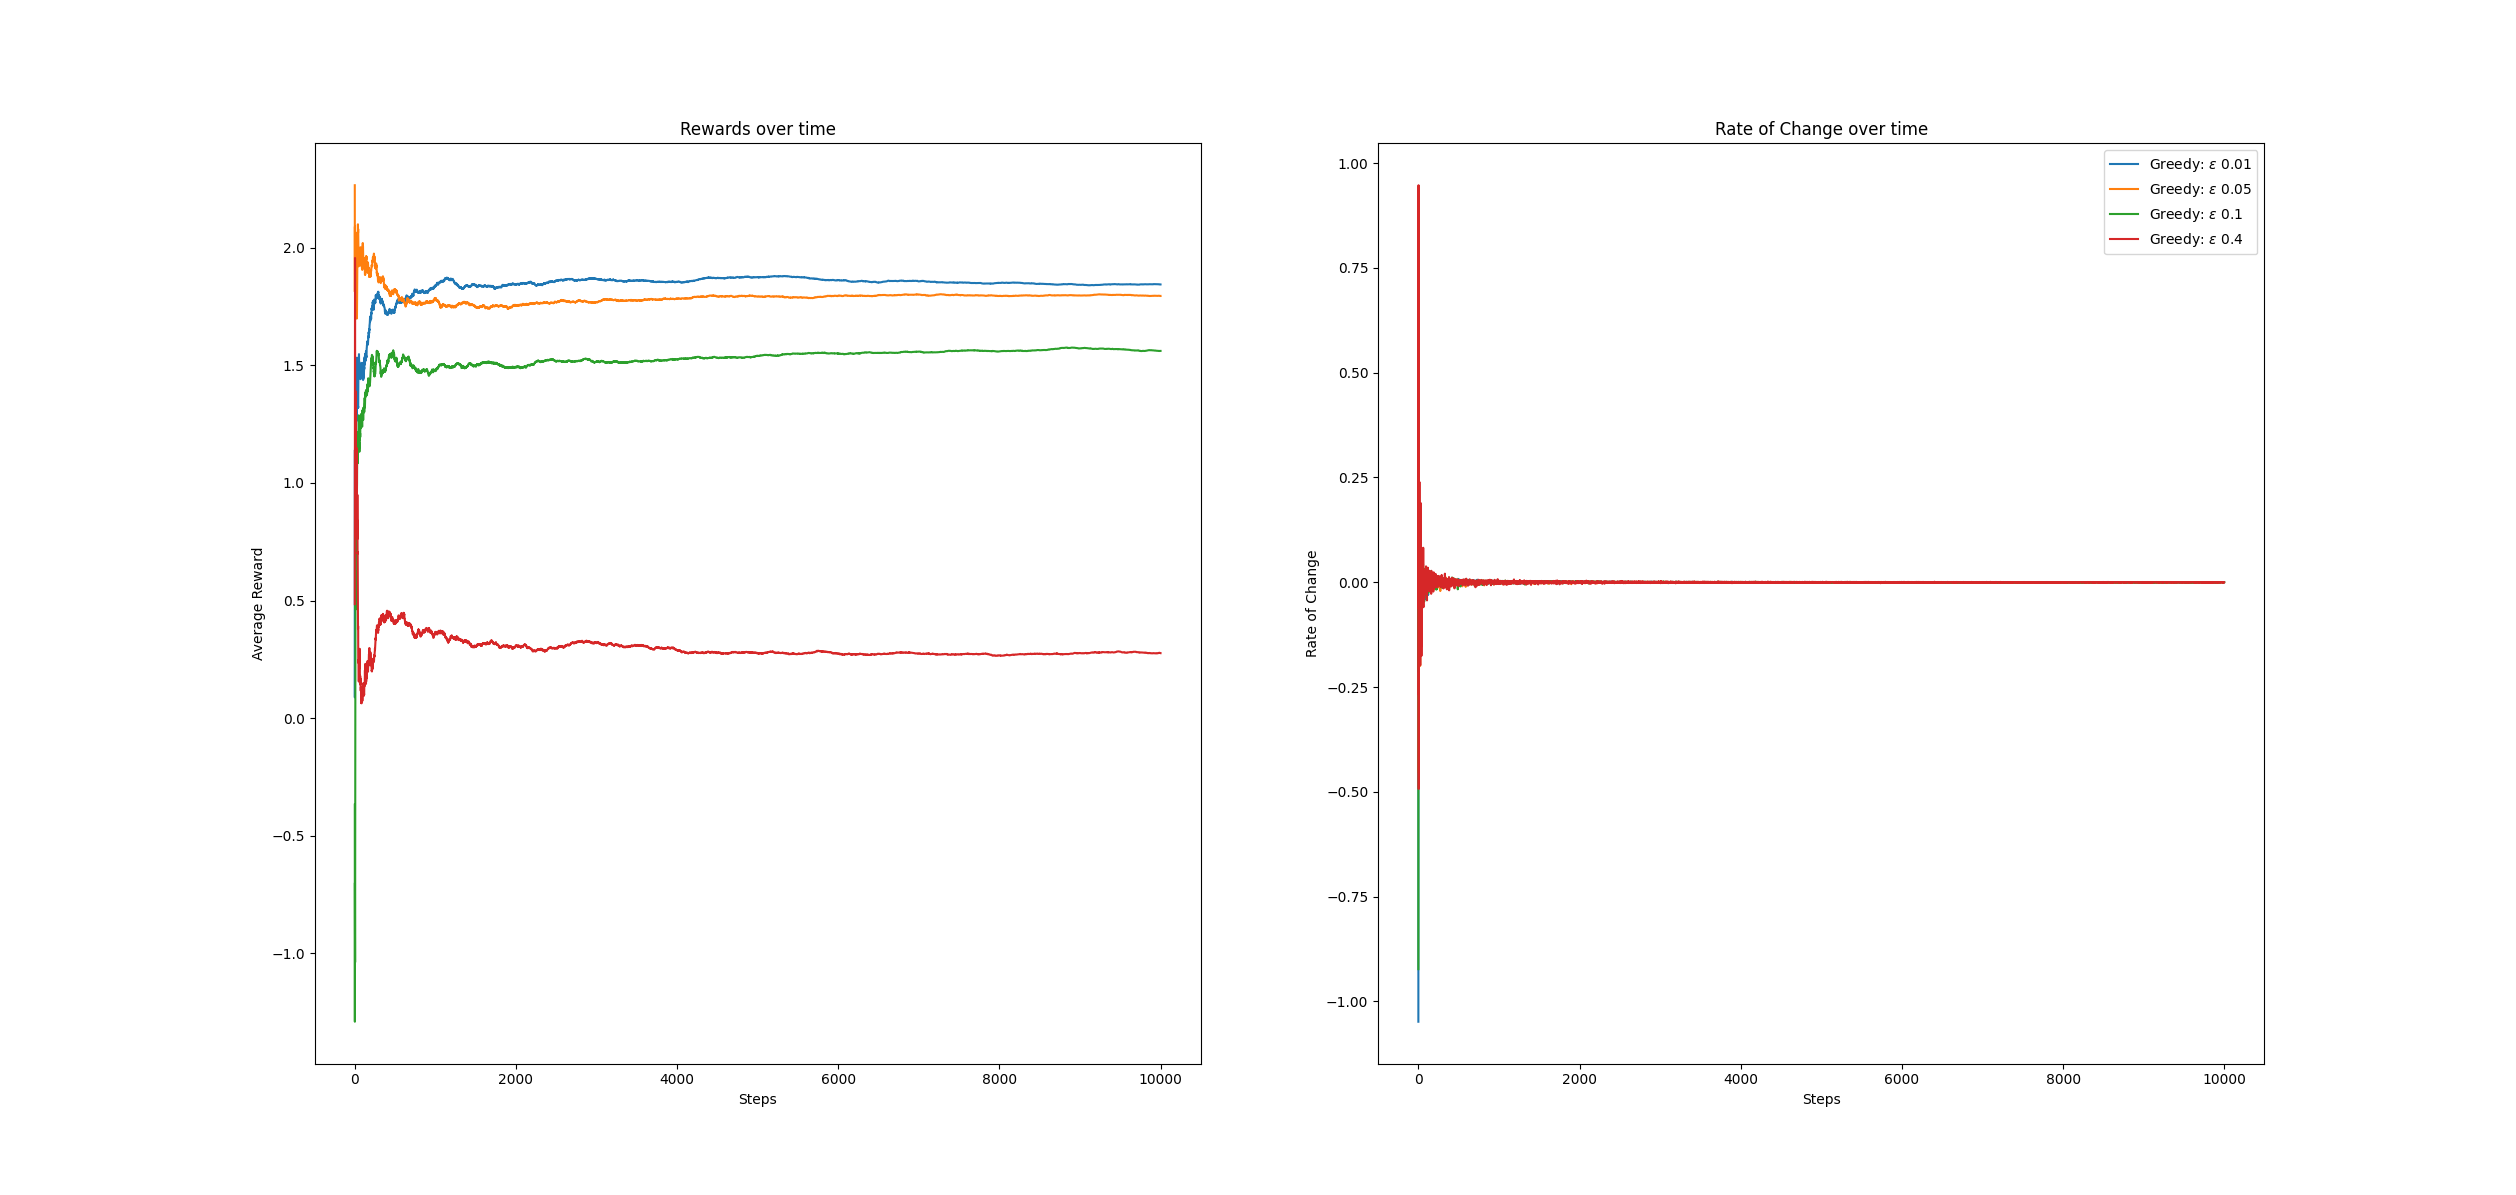
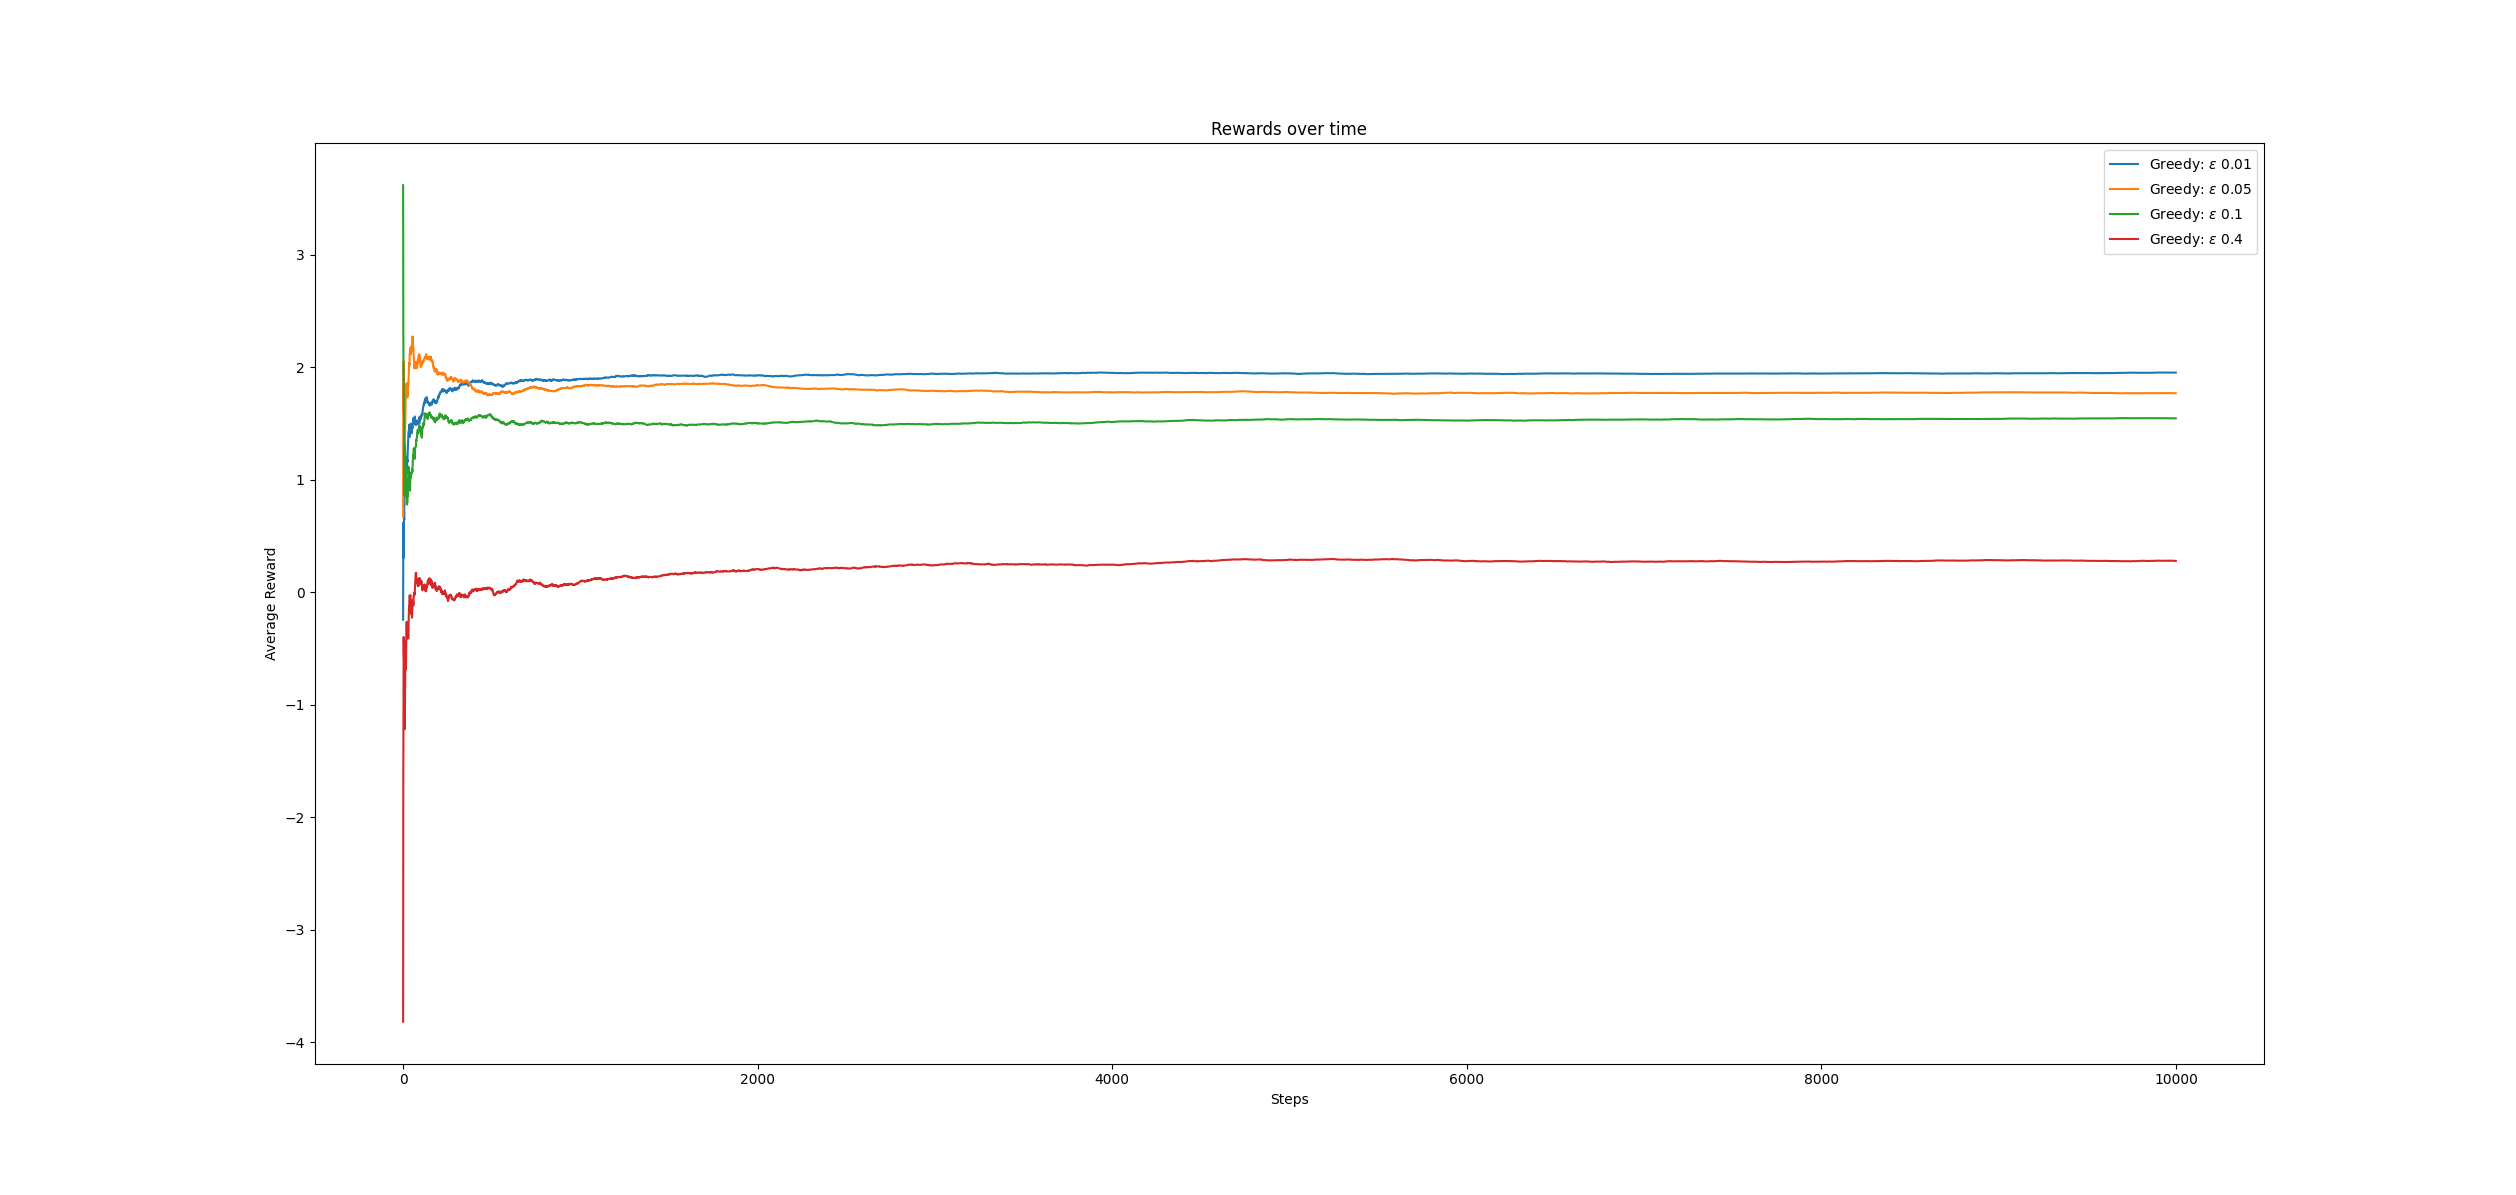
working on p2

diff --git a/cs5060/hw2/main.py b/cs5060/hw2/main.py
@@ -1,33 +1,46 @@
+import typing as t
 import abc
-import itertools
+from importlib.metadata import distribution, distributions
 import sys
 import numpy as np
 import matplotlib.pyplot as plt
 
 
-def estimate_convergence(eps):
-    """
-    estimate rate of convergence q from sequence esp
-    """
-    x = np.arange(len(eps) - 1)
-    y = np.log(np.abs(np.diff(np.log(eps))))
-    line = np.polyfit(x, y, 1)
-    q = np.exp(line[0])
-    return q
-
-
 class NormalBandits:
-    def __init__(self, distributions: list[tuple[float, float]]):
+    def __init__(self, distributions: t.List[t.Tuple[float, float]], drift: int = 0):
         self.distributions = distributions
+        self.step = 0
+        self.drift = drift
 
     def __len__(self):
         return len(self.distributions)
 
-    def rewards(self, drift=0) -> list[float]:
-        return [np.random.normal(mean + drift, dev) for mean, dev in self.distributions]
+    def rewards(self) -> t.List[float]:
+        return [
+            np.random.normal(mean + (self.drift * self.step), dev)
+            for mean, dev in self.distributions
+        ]
 
-    def reward(self, action: int, drift=0) -> float:
-        return self.rewards(drift)[action]
+    def reward(self, action: int) -> float:
+        self.step += 1
+        return self.rewards()[action]
+
+
+class MovingNormalBandits(NormalBandits):
+    shifts = {0: 5, 2: 2, 7: 3, 18: 3}
+
+    def reward(self, action: int) -> float:
+        self.step += 1
+        if self.step == 3000:
+            self._perform_shift()
+
+        return self.rewards()[action]
+
+    def _perform_shift(self):
+        self.distributions = [
+            (mean + self.shifts.get(idx, 0), shift)
+            for idx, (mean, shift) in enumerate(self.distributions)
+        ]
 
 
 class Agent(abc.ABC):
@@ -49,16 +62,20 @@ class Agent(abc.ABC):
         actions, rewards = [], []
         reward_averages = []
 
-        for i in range(steps):
-            action = self.take_action()
-            self.action_counts[action] += 2
-            reward = bandits.reward(action)
-            self.update_estimate(action, reward)
+        for step in range(steps):
+            action, reward = self.take_step(step, bandits)
             actions.append(action)
             rewards.append(reward)
             reward_averages.append(sum(rewards) / len(rewards))
 
         return np.array(reward_averages)
+
+    def take_step(self, step: int, bandits: NormalBandits):
+        action = self.take_action()
+        self.action_counts[action] += 1
+        reward = bandits.reward(action)
+        self.update_estimate(action, reward)
+        return action, reward
 
     @abc.abstractmethod
     def take_action(self):
@@ -102,12 +119,13 @@ class EpsilonGreedyAgent(Agent):
 
 
 class ThompshonSamplingAgent(Agent):
-    def __init__(self, num_actions: int):
+    def __init__(self, num_actions: int, reset_after: t.Optional[int] = None):
         super().__init__(num_actions)
-        self._as: list[float] = [1] * self.num_actions
-        self._bs: list[float] = [1] * self.num_actions
-        self._As: list[float] = [1] * self.num_actions
-        self._Bs: list[float] = [1] * self.num_actions
+        self._as: t.List[float] = [1] * self.num_actions
+        self._bs: t.List[float] = [1] * self.num_actions
+        self._As: t.List[float] = [1] * self.num_actions
+        self._Bs: t.List[float] = [1] * self.num_actions
+        self.reset_after = reset_after
 
     def __str__(self) -> str:
         return f"ThompsonSamling"
@@ -121,6 +139,15 @@ class ThompshonSamplingAgent(Agent):
     @property
     def best_estimated_reward(self):
         return max(self.estimates)
+
+    def take_step(self, step, bandits: NormalBandits):
+        res = super().take_step(step, bandits)
+        if step == self.reset_after:
+            self._as = [1] * self.num_actions
+            self._bs = [1] * self.num_actions
+            self._As = [1] * self.num_actions
+            self._Bs = [1] * self.num_actions
+        return res
 
     def update_estimate(self, action: int, reward: float):
         self._As[action] += reward
@@ -137,13 +164,15 @@ class ThompshonSamplingAgent(Agent):
 
 def experiment(
     agent: Agent,
-    bandits: NormalBandits,
     experiments: int,
     steps: int,
+    bandit_class: t.Type[NormalBandits],
+    **bandit_args: t.Any,
 ):
     rewards = np.zeros(steps)
 
     for _ in range(experiments):
+        bandits = bandit_class(**bandit_args)
         exp_rewards = agent.run(steps, bandits)
         rewards += exp_rewards
 
@@ -184,48 +213,162 @@ def part1(task: str):
         (-1, 6),
         (-4.5, 8),
     ]
-
-    bandits = NormalBandits(normal_distributions)
-    agent: Agent
-
-    fig, (ax1, ax2) = plt.subplots(1, 2)
-    ax1.set_title("Rewards over time")
-    ax2.set_title("Rate of Change over time")
-    ax1.set(xlabel="Steps", ylabel="Average Reward")
-    ax2.set(xlabel="Steps", ylabel="Rate of Change")
+    plt.title("Rewards over time")
+    plt.xlabel("Steps")
+    plt.ylabel("Average Reward")
 
     if task == "epsilons":
         for ep in epsilons:
             agent = EpsilonGreedyAgent(len(normal_distributions), ep)
-            rewards, rates = experiment(agent, bandits, N_experiments, N_steps)
-            ax1.plot(rewards, label=f"Greedy: $\\epsilon$ {ep}")
-            ax2.plot(rates, label=f"Greedy: $\\epsilon$ {ep}")
+            rewards, rates = experiment(
+                agent,
+                N_experiments,
+                N_steps,
+                NormalBandits,
+                distributions=normal_distributions,
+            )
+            plt.plot(rewards, label=f"Greedy: $\\epsilon$ {ep}")
+        plt.legend()
+        plt.show()
     elif task == "optimal":
         N_experiments = 5
         N_steps = 1000
-        epsilons = [i / 1000 for i in range(1, 1000)]
+        N_epsilons = 10
+        epsilons = [i / N_epsilons for i in range(1, 10)]
 
-        avg_rewards = []
-        for ep in epsilons:
+        for i, ep in enumerate(epsilons):
             agent = EpsilonGreedyAgent(len(normal_distributions), ep)
-            rewards, rates = experiment(agent, bandits, N_experiments, N_steps)
-            avg_rewards.append(rewards[-1])
-        print(f"Optimal epsilon: {epsilons[avg_rewards.index(max(avg_rewards))]}")
-        return
+            rewards, rates = experiment(
+                agent,
+                N_experiments,
+                N_steps,
+                NormalBandits,
+                distributions=normal_distributions,
+            )
+        # print(f"Optimal epsilon: {epsilons[avg_rewards.index(max(avg_rewards))]}")
     elif task == "thompson":
         agent = EpsilonGreedyAgent(len(normal_distributions), 0.02)
-        rewards, rates = experiment(agent, bandits, N_experiments, N_steps)
-        plt.plot(rewards, label="Thompson Sampling")
+        rewards, rates = experiment(
+            agent,
+            N_experiments,
+            N_steps,
+            NormalBandits,
+            distributions=normal_distributions,
+        )
+        plt.plot(rewards, label="Optimal Greedy")
 
         agent = ThompshonSamplingAgent(len(normal_distributions))
-        rewards = experiment(agent, bandits, N_experiments, N_steps)
+        rewards, rates = experiment(
+            agent,
+            N_experiments,
+            N_steps,
+            NormalBandits,
+            distributions=normal_distributions,
+        )
         plt.plot(rewards, label="Thompson Sampling")
+        plt.legend()
+        plt.show()
     else:
         print("Possible tasks: epsilons, optimal, thompson")
         return
 
-    plt.legend()
-    plt.show()
+
+def part2(task):
+    N_experiments = 10
+    N_steps = 10_000
+    epsilons = [0.01, 0.05, 0.1, 0.4]
+    normal_distributions = [
+        (0, 5),
+        (-0.5, 12),
+        (2, 3.9),
+        (-0.5, 7),
+        (-1.2, 8),
+        (-3, 7),
+        (-10, 20),
+        (-0.5, 1),
+        (-1, 2),
+        (1, 6),
+        (0.7, 4),
+        (-6, 11),
+        (-7, 1),
+        (-0.5, 2),
+        (-6.5, 1),
+        (-3, 6),
+        (0, 8),
+        (2, 3.9),
+        (-9, 12),
+        (-1, 6),
+        (-4.5, 8),
+    ]
+    plt.title("Rewards over time")
+    plt.xlabel("Steps")
+    plt.ylabel("Average Reward")
+
+    if task == "epsilons":
+
+        for ep in epsilons:
+            agent = EpsilonGreedyAgent(len(normal_distributions), ep)
+            rewards, rates = experiment(
+                agent,
+                N_experiments,
+                N_steps,
+                MovingNormalBandits,
+                distributions=normal_distributions,
+                drift=-0.001,
+            )
+            plt.plot(rewards, label=f"Greedy: $\\epsilon$ {ep}")
+        plt.legend()
+        plt.show()
+
+    elif task == "thompson":
+        agent = EpsilonGreedyAgent(len(normal_distributions), 0.02)
+        rewards, rates = experiment(
+            agent,
+            N_experiments,
+            N_steps,
+            NormalBandits,
+            distributions=normal_distributions,
+            drift=-0.001,
+        )
+
+        plt.plot(rewards, label="Optimal Greedy")
+        agent = ThompshonSamplingAgent(len(normal_distributions))
+        rewards, rates = experiment(
+            agent,
+            N_experiments,
+            N_steps,
+            MovingNormalBandits,
+            distributions=normal_distributions,
+            drift=-0.001,
+        )
+        plt.plot(rewards, label="Thompson Sampling")
+        plt.legend()
+        plt.show()
+
+    elif task == "restart":
+        agent = EpsilonGreedyAgent(len(normal_distributions), 0.02)
+        rewards, rates = experiment(
+            agent,
+            N_experiments,
+            N_steps,
+            NormalBandits,
+            distributions=normal_distributions,
+            drift=-0.001,
+        )
+
+        plt.plot(rewards, label="Optimal Greedy")
+        agent = ThompshonSamplingAgent(len(normal_distributions), 3000)
+        rewards, rates = experiment(
+            agent,
+            N_experiments,
+            N_steps,
+            MovingNormalBandits,
+            distributions=normal_distributions,
+            drift=-0.001,
+        )
+        plt.plot(rewards, label="Thompson Sampling")
+        plt.legend()
+        plt.show()
 
 
 def main():
@@ -237,7 +380,7 @@ def main():
     if sys.argv[-2] == "p1":
         part1(sys.argv[-1])
     elif sys.argv[-2] == "p2":
-        ...
+        part2(sys.argv[-1])
     else:
         print("Enter p1 or p2")
 

diff --git a/cs5060/hw2/README.md b/cs5060/hw2/README.md
@@ -1,8 +1,34 @@
 # Part 1
 
-1. As the image shows, a epsilon of 0.01 generally ends up performing the best overall, but 0.05 is not too far behind. As the second figure shows, all the values quickly converge after only about 1000 steps. This likely indicates that running this for 10,000 iterations is uneccesary to achieve good results as the rest of the steps have very little effect on the overall result.
+## Section 1
+ As the image shows, a epsilon of 0.01 generally ends up performing the best overall, but 0.05 is not too far behind. As the second figure shows, all the values quickly converge after only about 1000 steps. This likely indicates that running this for 10,000 iterations is uneccesary to achieve good results as the rest of the steps have very little effect on the overall result.
 
 ![Figure 1](./figures/p1-1.png)
 
+Execute with
+```bash
+$ python Collings_Sean.py p1 epsilons
+```
 
-2.
+## Section 2
+TODO
+
+## Section 3
+Execute with
+```bash
+$ python Collings_Sean.py p1 thompson
+```
+
+This figure demonstrates that Thompshon sampling will outperform Epsilon-greedy over time. However, intially epsilon-greedy is actually better, so you may still want to go with it depending on your dataset
+
+![Figure 3](./figures/p1-2.png)
+
+# Part 2
+
+## Section 1
+![Figure 4](./figures/p2-1.png)
+
+## Section 2
+## Section 3
+
+## Section 4
